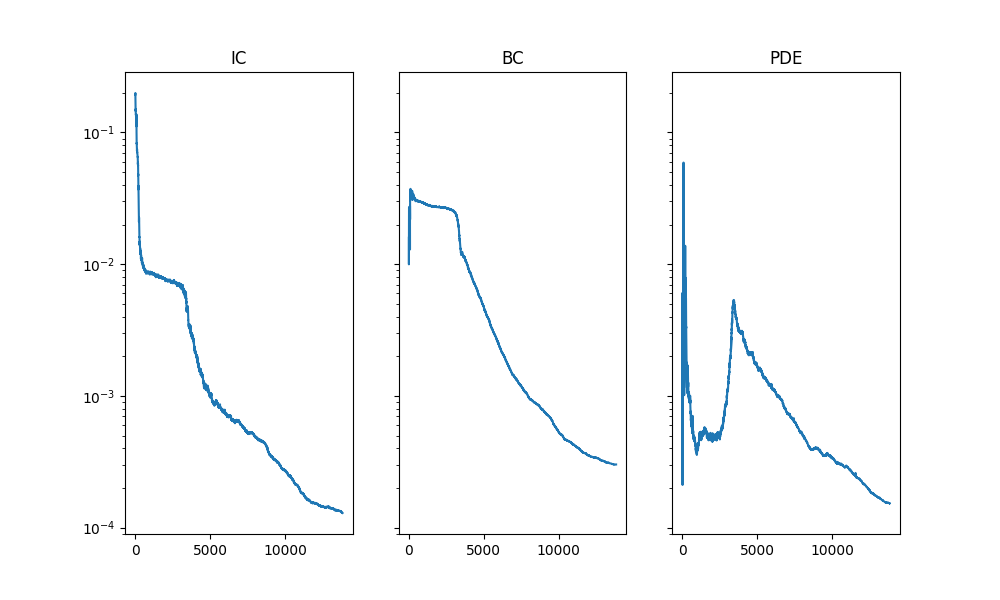
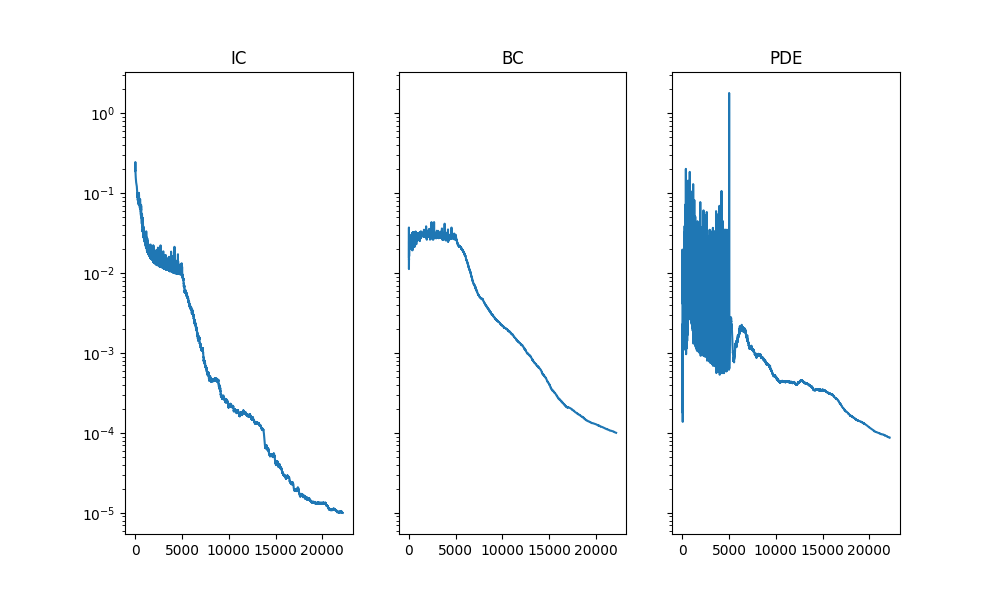
Add min-max scaling

diff --git a/Heat/main.py b/Heat/main.py
@@ -13,14 +13,52 @@ from matplotlib.animation import FuncAnimation
 
 device = torch.device("cuda:0" if torch.cuda.is_available() else "cpu")
 
+N_u = 100
+N_f = 10000
+
+x_min = 0.0
+x_max = 1.0
+t_min = 0.0
+t_max = 1.0
+
+ub = np.array([x_max, t_max])
+lb = np.array([x_min, t_min])
+
+# initial condition, u(x, 0) = f(x)
+x_ic = np.random.uniform(low=x_min, high=x_max, size=(N_u, 1))
+t_ic = np.zeros((N_u, 1))
+u_ic = np.ones((N_u, 1))
+
+# Case 1. Const End, u(0, t) = T
+# Case 2. Insulated End, u_x(0, t) = 0
+# Case 3. Radiating End, u_x(0, t) = A * u(x0, t)
+
+x_bc = np.zeros((N_u, 1))
+t_bc = np.random.uniform(low=t_min, high=t_max, size=(N_u, 1))
+u_bc = np.zeros((N_u, 1))
+
+x_u = np.concatenate((x_ic, x_bc), axis=0)
+t_u = np.concatenate((t_ic, t_bc), axis=0)
+xt_u = np.concatenate((x_u, t_u), axis=1)
+u_u = np.concatenate((u_ic, u_bc), axis=0)
+
+x_f = np.random.uniform(x_min, x_max, (N_f, 1))
+t_f = np.random.uniform(t_min, t_max, (N_f, 1))
+xt_f = np.hstack([x_f, t_f])
+xt_f = np.vstack([xt_f, xt_u])
+
+xt_u = torch.tensor(xt_u, dtype=torch.float32).to(device)
+u_u = torch.tensor(u_u, dtype=torch.float32).to(device)
+xt_f = torch.tensor(xt_f, dtype=torch.float32).to(device)
+
 
 class PINN:
     c = 1
 
     def __init__(self) -> None:
-        self.net = DNN(
-            dim_in=2, dim_out=1, n_layer=4, n_node=20, activation=nn.Tanh()
-        ).to(device)
+        self.net = DNN(dim_in=2, dim_out=1, n_layer=4, n_node=20, ub=ub, lb=lb).to(
+            device
+        )
         self.optimizer = torch.optim.LBFGS(
             self.net.parameters(),
             lr=1.0,
@@ -56,42 +94,6 @@ class PINN:
         if self.iter % 500 == 0:
             print("")
         return loss
-
-
-N_u = 100
-N_f = 10000
-
-x_min = 0.0
-x_max = 1.0
-t_min = 0.0
-t_max = 1.0
-
-# initial condition, u(x, 0) = f(x)
-x_ic = np.random.uniform(low=x_min, high=x_max, size=(N_u, 1))
-t_ic = np.zeros((N_u, 1))
-u_ic = np.ones((N_u, 1))
-
-# Case 1. Const End, u(0, t) = T
-# Case 2. Insulated End, u_x(0, t) = 0
-# Case 3. Radiating End, u_x(0, t) = A * u(x0, t)
-
-x_bc = np.zeros((N_u, 1))
-t_bc = np.random.uniform(low=t_min, high=t_max, size=(N_u, 1))
-u_bc = np.zeros((N_u, 1))
-
-x_u = np.concatenate((x_ic, x_bc), axis=0)
-t_u = np.concatenate((t_ic, t_bc), axis=0)
-xt_u = np.concatenate((x_u, t_u), axis=1)
-u_u = np.concatenate((u_ic, u_bc), axis=0)
-
-x_f = np.random.uniform(x_min, x_max, (N_f, 1))
-t_f = np.random.uniform(t_min, t_max, (N_f, 1))
-xt_f = np.hstack([x_f, t_f])
-xt_f = np.vstack([xt_f, xt_u])
-
-xt_u = torch.tensor(xt_u, dtype=torch.float32).to(device)
-u_u = torch.tensor(u_u, dtype=torch.float32).to(device)
-xt_f = torch.tensor(xt_f, dtype=torch.float32).to(device)
 
 
 pinn = PINN()

diff --git a/Wave/1D/main.py b/Wave/1D/main.py
@@ -15,6 +15,9 @@ x_max = 1
 t_min = 0
 t_max = 1
 
+ub = np.array([x_max, t_max])
+lb = np.array([x_min, t_min])
+
 N_u = 200
 N_f = 10000
 
@@ -24,14 +27,11 @@ x_ic = np.random.uniform(x_min, x_max, (N_u, 1))
 t_ic = np.zeros((N_u, 1))
 xt_ic = np.hstack([x_ic, t_ic])
 u_ic = np.zeros((N_u, 1))
-u_ic = np.sin(x_ic * np.pi)
 
-# BC : Controlled end points, u(x,0) = u(x,L) = 0
 # BC : Controlled end points, u(x,0) = sin(2pi * t * freq), u(x, L) = 0
 x_bc1 = np.zeros((N_u, 1))
 t_bc1 = np.random.uniform(t_min, t_max, (N_u, 1))
-u_bc1 = np.zeros((N_u, 1))
-# u_bc1 = np.sin(2 * np.pi * t_bc1 * 2)
+u_bc1 = np.sin(2 * np.pi * t_bc1 * 2)
 
 x_bc2 = np.ones((N_u, 1)) * x_max
 t_bc2 = np.random.uniform(t_min, t_max, (N_u, 1))
@@ -64,14 +64,14 @@ class PINN:
     c = 1
 
     def __init__(self) -> None:
-        self.net = DNN(
-            dim_in=2, dim_out=1, n_layer=5, n_node=20, activation=torch.nn.Tanh()
-        ).to(device)
+        self.net = DNN(dim_in=2, dim_out=1, n_layer=5, n_node=20, ub=ub, lb=lb).to(
+            device
+        )
         self.optimizer = torch.optim.LBFGS(
             self.net.parameters(),
             lr=1.0,
-            max_iter=10000,
-            max_eval=10000,
+            max_iter=50000,
+            max_eval=50000,
             history_size=50,
             tolerance_grad=1e-5,
             tolerance_change=1.0 * np.finfo(float).eps,

diff --git a/network.py b/network.py
@@ -3,6 +3,7 @@ import torch.nn as nn
 import numpy as np
 
 torch.backends.cuda.matmul.allow_tf32 = False
+device = torch.device("cuda") if torch.cuda.is_available() else torch.device("cpu")
 torch.manual_seed(1234)
 np.random.seed(1234)
 
@@ -14,6 +15,7 @@ class layer(nn.Module):
         self.activation = activation
 
     def forward(self, x):
+
         x = self.layer(x)
         if self.activation:
             x = self.activation(x)
@@ -21,18 +23,20 @@ class layer(nn.Module):
 
 
 class DNN(nn.Module):
-    def __init__(self, dim_in, dim_out, n_layer, n_node, activation=nn.Tanh()):
+    def __init__(self, dim_in, dim_out, n_layer, n_node, ub, lb, activation=nn.Tanh()):
         super().__init__()
-
         self.net = nn.ModuleList()
         self.net.append(layer(dim_in, n_node, activation))
         for _ in range(n_layer):
             self.net.append(layer(n_node, n_node, activation))
         self.net.append(layer(n_node, dim_out, activation=None))
         self.net.apply(weights_init)
+        self.ub = torch.tensor(ub, dtype=torch.float).to(device)
+        self.lb = torch.tensor(lb, dtype=torch.float).to(device)
 
-    def forward(self, xt):
-        out = xt
+    def forward(self, x):
+        x = (x - self.lb) / (self.ub - self.lb)
+        out = x
         for layer in self.net:
             out = layer(out)
         return out

diff --git a/Burgers/Identification/main.py b/Burgers/Identification/main.py
@@ -23,6 +23,9 @@ x = data["x"]
 t = data["t"]
 u = data["usol"].T
 
+ub = np.array([x.max(), t.max()])
+lb = np.array([x.min(), t.min()])
+
 # Clean Data Preparation
 x_, t_ = np.meshgrid(x, t)
 x_ = x_.reshape(-1, 1)
@@ -48,9 +51,9 @@ class PINN:
         self.lambda_2 = torch.tensor([-6.0], requires_grad=True).to(device)
         self.lambda_1 = torch.nn.Parameter(self.lambda_1)
         self.lambda_2 = torch.nn.Parameter(self.lambda_2)
-        self.net = DNN(
-            dim_in=2, dim_out=1, n_layer=7, n_node=20, activation=torch.nn.Tanh()
-        ).to(device)
+        self.net = DNN(dim_in=2, dim_out=1, n_layer=7, n_node=20, ub=ub, lb=lb,).to(
+            device
+        )
         self.net.register_parameter("lambda_1", self.lambda_1)
         self.net.register_parameter("lambda_2", self.lambda_2)
 

diff --git a/Burgers/Inference/main.py b/Burgers/Inference/main.py
@@ -27,6 +27,9 @@ x_max = 1
 t_min = 0
 t_max = 1
 
+ub = np.array([x_max, t_max])
+lb = np.array([x_min, t_min])
+
 x_bc1 = np.random.uniform(x_min, x_max, (N_u, 1))
 t_bc1 = np.zeros((N_u, 1))
 u_bc1 = -np.sin(np.pi * x_bc1)
@@ -58,10 +61,9 @@ class PINN:
     mu = 0.01 / np.pi
 
     def __init__(self):
-        self.net = DNN(
-            dim_in=2, dim_out=1, n_layer=7, n_node=20, activation=torch.nn.Tanh()
+        self.net = DNN(dim_in=2, dim_out=1, n_layer=7, n_node=20, ub=ub, lb=lb).to(
+            device
         )
-        self.net.to(device)
         self.optimizer = torch.optim.LBFGS(
             self.net.parameters(),
             lr=1.0,

diff --git a/Schrodinger/main.py b/Schrodinger/main.py
@@ -1,0 +1,28 @@
+import sys
+
+sys.path.append(".")
+import network
+import numpy as np
+import torch
+from torch.autograd import grad
+
+
+def trainingData():
+    # ic
+    pass
+
+
+class PINN:
+    def __init__(self) -> None:
+        self.net = network(2, 2, 4, 20)
+
+    def f(self, xt):
+        xt = xt.clone()
+        xt.requires_grad = True
+
+        h = self.net(xt)
+        u = h[:, 0:1]
+        v = h[:, 1:2]
+        h_xt = grad(h.sum(), xt, create_graph=True)[0]
+
+        f = self.i * h_t + 0.5 * h_xx + torch.sqrt(u, v) * h

diff --git a/Wave/2D/main.py b/Wave/2D/main.py
@@ -18,6 +18,9 @@ y_max = 1.0
 t_min = 0.0
 t_max = 1.0
 
+ub = np.array([x_max, y_max, t_max])
+lb = np.array([x_min, y_min, t_min])
+
 N_ic = 500
 N_bc = 400
 N_f = 20000
@@ -94,7 +97,7 @@ class PINN:
 
     def __init__(self) -> None:
         self.net = DNN(
-            dim_in=3, dim_out=1, n_layer=6, n_node=40, activation=torch.nn.Tanh()
+            dim_in=3, dim_out=1, n_layer=6, n_node=40, ub=ub, lb=lb
         ).to(device)
         self.iter = 0
         self.optimizer = torch.optim.LBFGS(

diff --git a/Wave/2D/plot.py b/Wave/2D/plot.py
@@ -29,7 +29,6 @@ xyt = np.hstack([x_, y_, t_])
 xyt = torch.tensor(xyt, dtype=torch.float).to(device)
 
 u = pinn.net(normalize(xyt)).detach().cpu().numpy().reshape(x_mesh.shape)
-u = np.swapaxes(u, 0, 1)
 # u = np.sin(2 * np.pi * x_mesh) * np.sin(np.pi * y_mesh)
 
 fig = plt.figure()
